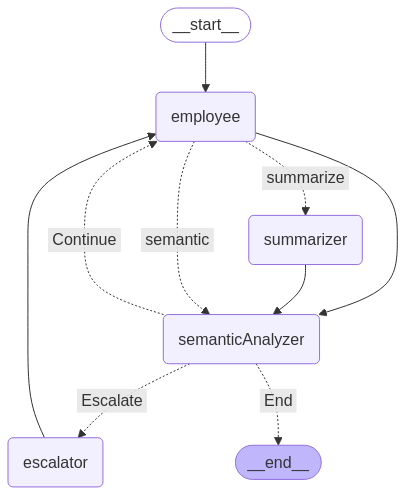
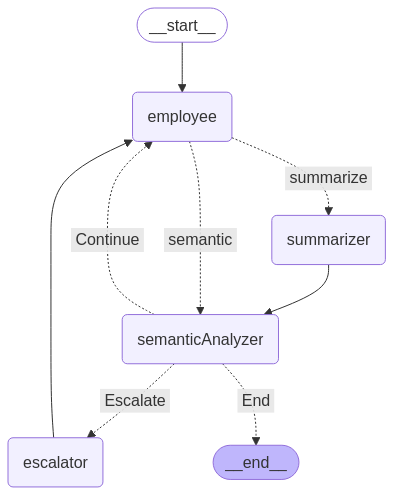
Fix all issues, TODO memory extraction node

diff --git a/test.py b/test.py
@@ -1,11 +1,10 @@
 from typing import Annotated
 from typing_extensions import TypedDict
-from langchain_core.messages import HumanMessage, SystemMessage, AIMessage
+from langchain_core.messages import HumanMessage, SystemMessage, AIMessage, RemoveMessage
 from langgraph.graph import StateGraph, START, END
 from langgraph.graph.message import add_messages
 from langchain_together import ChatTogether
-from IPython.display import Image, display
-from langchain_core.runnables.graph import CurveStyle, MermaidDrawMethod, NodeStyles
+from langchain_core.runnables.graph import  MermaidDrawMethod
 import os
 
 class State(TypedDict):
@@ -18,18 +17,25 @@ test_state = {"messages": [HumanMessage(content="I need to update my password ho
 # Set up the model
 llm = ChatTogether(
     model="meta-llama/Llama-3.3-70B-Instruct-Turbo",  # Change model if needed
-    temperature=0.7,
+    temperature=0.0,
 )
 
 def employee(state: State):
     """It is responsible for support the customer"""
     summary = state.get("summary", "")
+    trials = state.get("trials", 0)
     if summary:
         sysmsg = SystemMessage(content=f"You are a helpful customer service! Respond to each inquiry as best you can. Consider the summary of earlier conversation: {summary}")
     else:
         sysmsg = SystemMessage(content="You are a helpful customer service! Respond to each inquiry as best you can.")
-    context = [sysmsg] + state["messages"]
-    return {"messages": [llm.invoke(context)]}
+    
+    if trials == 0: # new inqury
+        inquery = HumanMessage(content=input("User: "))
+        context = [sysmsg] + state["messages"] + [inquery]
+        return {"messages": [inquery, llm.invoke(context)], 'trials': trials+1, 'summary':summary}
+    else: # try to solve the same issue with another sugesstion
+        context = state['messages'] + [HumanMessage(content="Give me another method to solve it")]
+        return {"messages": [llm.invoke(context)], 'trials': trials+1, 'summary':summary}
 
 def isLong(state: State):
     return  "summarize" if len(state["messages"]) > 25  else "semantic"
@@ -42,36 +48,41 @@ def summarizer(state: State):
     else:
         summary_message = HumanMessage(content="Create a summary of the conversation below:")
     
-    response = llm.invoke([summary_message] + state['messages'])
-    return {"messages": state["messages"][-4:], "summary": response.content}
+    response = llm.invoke([summary_message] + state['messages'][:-5])
+    delete_messages = [RemoveMessage(id=m.id) for m in state["messages"][:-5]]
+    return {"messages": delete_messages, "summary": response.content, 'trials': state["trials"]}
 
 
 def semanticAnalyzer(state: State):
     """It is responsible for making decision based on semantics of user"""
-    context = [SystemMessage(content="You are semantic analyzer! Analyze the following, then provide one of the following outputs: Solved, Not solved or End conversaion.")] + state["messages"][-1]
+    response = HumanMessage(content=input("User: "))
+    context = [SystemMessage(content="You are semantic analyzer! Analyze the final message, then provide one of the following outputs(Solved, Not solved or End conversation) according to context of the conversation. Note you should not return anything other than given options")] + state['messages'] + [response]
     semantic = llm.invoke(context).content
+    summary = state.get("summary", "")
+    trials = state.get("trials", 0)
+    #print(semantic)
     if semantic == "Solved":
-        return {"messages": AIMessage(content="Can I help you with anything else?")}
+        return {"messages": [AIMessage(content="Can I help you with anything else?")], 'summary': summary, 'trials': trials}
     elif semantic == "Not solved":
-        if state["trials"] < 3:
-            response = llm.invoke([state['messages'] + HumanMessage("Give me another method to solve it")])
-            return {"messages": [response], "trials": state["trials"]+1}
+        if trials < 3:
+            return {"messages": [response], 'summary': summary, 'trials': trials}
         else:
-            return {"trials": state["trials"]+1}
+            return {'messages': [response, AIMessage(content= "As the problem is persisting, I will summarize and escalate it to support team.")], 'summary': summary, 'trials': trials}
     else:
-        return {"trials": -1}
+        return {'messages': [AIMessage(content= "Good bye.")], 'summary': summary, "trials": -1}
 
 def escalator(state: State):
     """Escalate the issue to human"""
-    return {"messages": [AIMessage(content= "As the problem is presisting, I will sumarize and esclate it to support team. Can I help you with anything else?")], "trials": 0}
+    return {"messages": [AIMessage(content= "Can I help you with anything else?")], "trials": 0, 'summary': state["summary"]}
 
 def branching(state: State):
-    if state["trials"] > 3:
+    if state["trials"] > 2:
         return "Escalate"
     elif state["trials"] == -1:
         return "End"
     else:
         return "Continue" 
+
 graph_builder = StateGraph(State)
 
 graph_builder.add_node("employee", employee)
@@ -80,7 +91,7 @@ graph_builder.add_node("escalator", escalator)
 graph_builder.add_node("summarizer",summarizer)
 
 graph_builder.add_edge(START, "employee")
-graph_builder.add_edge("employee", "semanticAnalyzer")
+#graph_builder.add_edge("employee", "semanticAnalyzer")
 graph_builder.add_edge("summarizer", "semanticAnalyzer")
 graph_builder.add_edge("escalator", "employee")
 graph_builder.add_conditional_edges("employee", isLong, {"summarize": "summarizer", "semantic": "semanticAnalyzer"})
@@ -89,7 +100,24 @@ graph_builder.add_conditional_edges("semanticAnalyzer", branching, {"Escalate": 
 
 graph = graph_builder.compile()
 
-graph.get_graph().draw_mermaid_png(output_file_path="graph.png",draw_method=MermaidDrawMethod.API)
+def pretty_print_stream_chunk(chunk):
+    #print(chunk.items())
+    for node, updates in chunk.items():
+        print(f"Update from node: {node}")
+        if "messages" in updates:
+            if isinstance(updates["messages"][-1], HumanMessage):
+                continue
+            updates["messages"][-1].pretty_print()
+        else:
+            print(updates)
+
+        print("\n")
+
+config = {"configurable": {"user_id": "1", "thread_id": "1"}}
+for chunk in graph.stream({"messages": []}, config=config):
+    pretty_print_stream_chunk(chunk)
+
+# graph.get_graph().draw_mermaid_png(output_file_path="graph.png",draw_method=MermaidDrawMethod.API)
 
 #print(graph.invoke(test_state)['messages'])
 
